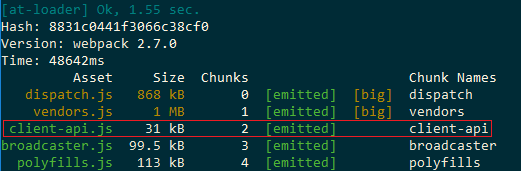
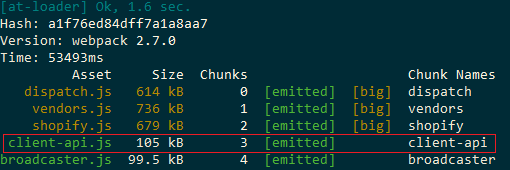
Add new article, webpack angular 2 bundle

Changed region(s): [[0.0, 0.4118, 0.9706, 1.0], [0.0, 0.0, 0.4118, 0.3824]]

diff --git a/_posts/2018-02-05-angular-tips-avoid-import-rxjs.md b/_posts/2018-02-05-angular-tips-avoid-import-rxjs.md
@@ -1,0 +1,85 @@
+---
+title: "Angular tips: Avoid import RxJS in vendor.ts"
+categories: experience
+tags: webpack typescript
+---
+
+About 1.5 years ago, Angular was officially released the so-called Angular 2 after years in beta version. I was excited about this and even came and ask my boss to start building the new module in Angular, instead of current AngularJS. At the very beginning, Angular's document was also very limited in both quantity and quality. We were even ended up with SystemJS in the production site. It was even worse than AngularJS performance because SystemJS need to load the whole bunch of Angular code in the browser before our app start rendering. But finally, they published a guide to pack Angular with Webpack.
+
+[https://angular.io/guide/webpack](https://angular.io/guide/webpack)
+
+At the end, you just need one bundle output "app.js" to make your app work. The idea is to split our application in three parts: app, vendor and polyfills (this latter one is a requirement with ng2).
+
+- polyfills: the polyfills needed to run Angular applications in most modern browsers.
+- vendor: the third-party dependencies such as Angular, lodash, and bootstrap.css.
+- app: the application code.
+
+Focusing on `app` and `vendor`, the idea is to have one bundle with only the application code and one bundle with only with vendor code.
+
+To make this separation to work, we need in `vendor.ts` to load our vendors too, so when webpack sees that we did an `import 'foo'` in `app.ts` (or any .ts in our application) and in `vendor.ts`, will see that they are in common so they will get removed from the application code.
+
+So, if you for example comment out the line where you import the router in `vendor.ts` and you import the router only in application code, it will work but the entire router code will end in the final `app.ts` bundle instead of the vendor bundle.
+
+In short, when an import appears both in `vendor.ts` and application code, that 3rd party library will be removed from the application code and put in a vendor bundle alone.
+
+**This is only the first step to achieve better things like proper caching so if you update only the app code and not the vendor, you won't force the client to download the vendors again.**
+
+---
+So I followed the mentioned guide, and put this block of code inside `vendor.ts`
+
+```javascript
+// Angular
+import '@angular/platform-browser';
+import '@angular/platform-browser-dynamic';
+import '@angular/core';
+import '@angular/common';
+import '@angular/http';
+import '@angular/router';
+
+// RxJS
+import 'rxjs';
+```
+
+And you can see how big the `vendor.ts` is, even with minification, almost 1mb. And the rxjs is taken up **~250kb**, which is equivalent to **26%** of my vendor bundle.
+
+![angular tips avoid import rxjs](https://github.com/trungk18/trungk18.github.io/raw/master/img/blog/import-rxjs-01.png)
+
+![angular tips avoid import rxjs](https://github.com/trungk18/trungk18.github.io/raw/master/img/blog/import-rxjs-02.png)
+
+With `import 'rxjs'`, you do not need to import each operator manually. However, **I highly recommend NOT to use this code since it imports the entire RxJS library, and we do not need all RxJS functionalities and operators in our projects.** You can see the big different below.
+
+Then I replace the `import 'rxjs'` with the block of code below to import only the neccessary that I need.
+
+```javascript
+// RxJS
+import { Subscription } from "rxjs/Subscription";
+import { Observable } from "rxjs/Observable";
+import { Subject } from "rxjs/Subject";
+import { BehaviorSubject } from 'rxjs/BehaviorSubject';
+// Observable class extensions
+import 'rxjs/add/observable/of';
+import 'rxjs/add/observable/fromEvent'
+import 'rxjs/add/observable/empty'
+import "rxjs/add/observable/forkJoin";
+
+// Observable operators
+import 'rxjs/add/operator/map';
+import 'rxjs/add/operator/concat';
+import 'rxjs/add/operator/delay';
+import 'rxjs/add/operator/do';
+import 'rxjs/add/operator/catch';
+import 'rxjs/add/operator/switchMap';
+import 'rxjs/add/operator/merge';
+import 'rxjs/add/operator/mergeMap';
+import 'rxjs/add/operator/filter';
+import 'rxjs/add/operator/debounceTime';
+import 'rxjs/add/operator/distinctUntilChanged';
+
+```
+Now we can the size was reduced significantly. The size of RxJS now will be just **60kb**, which is less **10%** of my vendor bundle.
+
+![angular tips avoid import rxjs](https://github.com/trungk18/trungk18.github.io/raw/master/img/blog/import-rxjs-03.png)
+
+![angular tips avoid import rxjs](https://github.com/trungk18/trungk18.github.io/raw/master/img/blog/import-rxjs-04.png)
+
+I hope that the Angular team will update the document soon, at least to notice developer not to import the whole RxJS library. Because they might not be using it at all.

diff --git a/_posts/2018-02-01-analyze-webpack-bundle.md b/_posts/2018-02-01-analyze-webpack-bundle.md
@@ -1,5 +1,5 @@
 ---
-title: "Analyze webpack bundle with source-map-explorer. Optimize moment.js with webpack"
+title: "Analyze webpack bundle with source-map-explorer. Optimize moment.js"
 categories: experience
 tags: webpack typescript
 ---
@@ -8,7 +8,7 @@ Webpack is a module bundler which means that it bundles together all of your Jav
 
 Recently our bundle size suddenly getting so much bigger than before. Although `webpack` provide the information of how your bundle was composed of. I found that [source-map-explorer](https://github.com/danvk/source-map-explorer) tool shows an easy-to-understand-and-explore visualization to help you debug where all the code is coming from.
 
-Take note of the image below. The size of `client-api.js` file before was just 31kb only.
+Take note of the image below. The size of `client-api.js` file before was just **100kb** only.
 
 ![analyze webpack bundle source-map-explorer](https://github.com/trungk18/trungk18.github.io/raw/master/img/blog/alalyze-webpack-01.png)
 
@@ -35,7 +35,7 @@ After running the command, this is how my client-api.js bundle looks like. You c
 
 ![analyze webpack bundle source-map-explorer](https://github.com/trungk18/trungk18.github.io/raw/master/img/blog/alalyze-webpack-03.png)
 
-One of the obvious parts we can take out is the moment.js locale, which accounts for 167kb and we are not using it at all. It happened because when you write `var moment = require('moment')` in your code and pack with webpack, the bundle will include all locale files.
+One of the obvious parts we can take out is the moment.js locale, which accounts for **167kb** and we are not using it at all. It happened because when you write `var moment = require('moment')` or `import * as moment from 'moment'` in your code and pack with webpack, the bundle will include all locale files.
 
 To remove all locale files, I will use the IgnorePlugin. Refer to [this question](https://stackoverflow.com/q/25384360/3375906) for more options.
 
@@ -59,7 +59,7 @@ require('moment/locale/ja');
 moment.locale('ja');
 ```
 
-Then I rebuild and re-analyze the bundle, you can see how all the locale was gone. We have just saved 100kb, quite a lot.
+Then I rebuild and re-analyze the bundle, you can see how all the locale was gone. We have just saved 100kb, quite a lot right?
 
 ![analyze webpack bundle source-map-explorer](https://github.com/trungk18/trungk18.github.io/raw/master/img/blog/alalyze-webpack-04.png)
 
